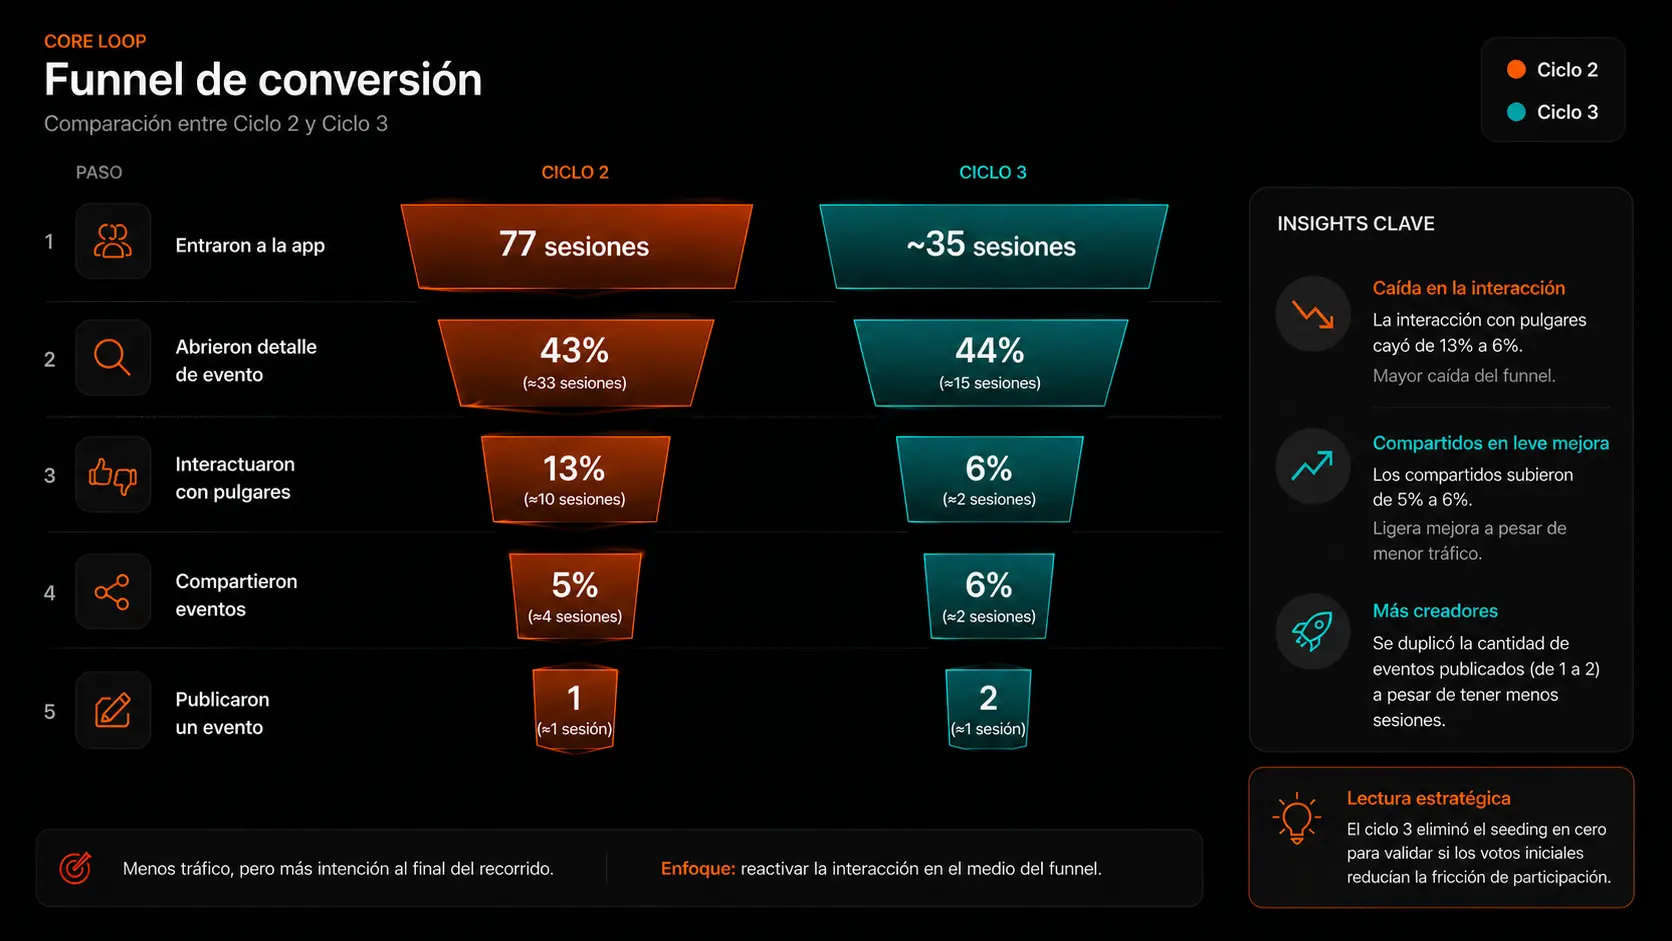
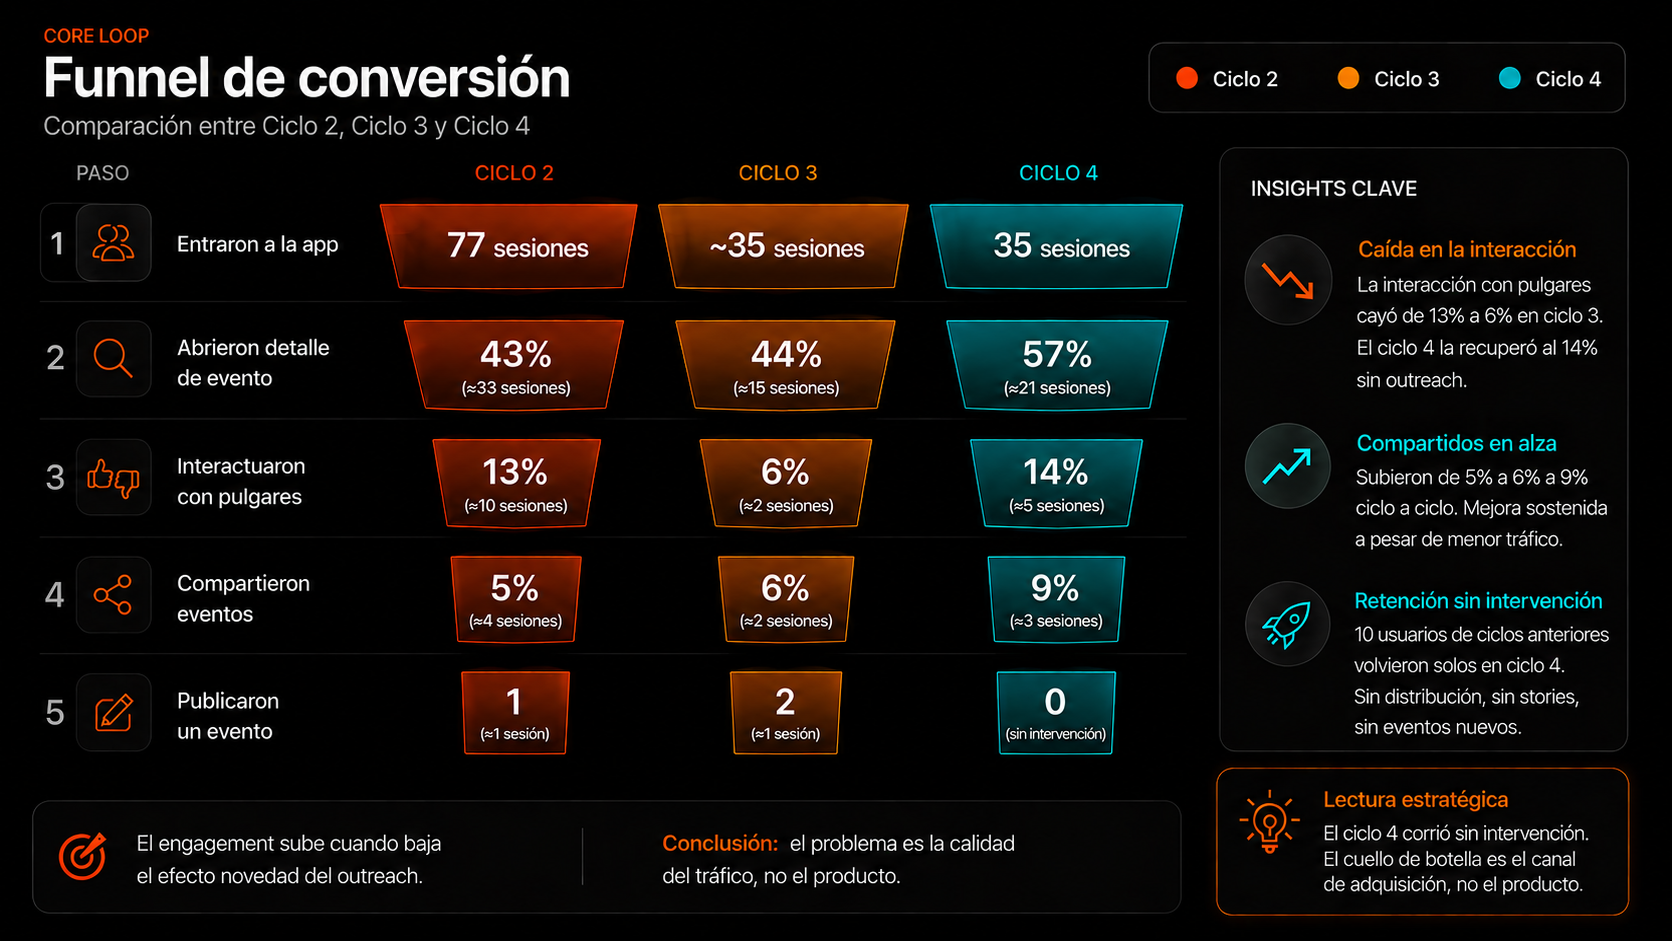
Ciclo 4 added

diff --git a/src/app/[lang]/manijapp/page.tsx b/src/app/[lang]/manijapp/page.tsx
@@ -705,8 +705,8 @@ export default async function ManijappPage({
             <section id="validacion" className="w-full px-8 md:px-12 lg:px-20 mb-20">
               <h2 className="text-3xl md:text-4xl font-bold text-light mb-6">
                 {es
-                  ? "Validación: tres ciclos, decisiones encadenadas"
-                  : "Validation: three cycles, chained decisions"}
+                  ? "Validación: cuatro ciclos, decisiones encadenadas"
+                  : "Validation: four cycles, chained decisions"}
               </h2>
 
               {/* Tabla de métricas */}
@@ -720,8 +720,11 @@ export default async function ManijappPage({
                       <th className="py-3 pr-6 text-right font-semibold text-light/70">
                         {es ? "Ciclo 2" : "Cycle 2"}
                       </th>
-                      <th className="py-3 text-right font-semibold text-light/70">
+                      <th className="py-3 pr-6 text-right font-semibold text-light/70">
                         {es ? "Ciclo 3" : "Cycle 3"}
+                      </th>
+                      <th className="py-3 text-right font-semibold text-light/70">
+                        {es ? "Ciclo 4" : "Cycle 4"}
                       </th>
                     </tr>
                   </thead>
@@ -731,53 +734,62 @@ export default async function ManijappPage({
                         {es ? "Usuarios activos (GA4)" : "Active users (GA4)"}
                       </td>
                       <td className="py-3 pr-6 text-right">89</td>
-                      <td className="py-3 text-right">32</td>
+                      <td className="py-3 pr-6 text-right">32</td>
+                      <td className="py-3 text-right">35</td>
                     </tr>
                     <tr>
                       <td className="py-3 pr-6 font-semibold">
                         {es ? "Pages / sesión" : "Pages / session"}
                       </td>
                       <td className="py-3 pr-6 text-right">2.45</td>
-                      <td className="py-3 text-right">4.02</td>
+                      <td className="py-3 pr-6 text-right">4.02</td>
+                      <td className="py-3 text-right">2.91</td>
                     </tr>
                     <tr>
                       <td className="py-3 pr-6 font-semibold">Scroll depth</td>
                       <td className="py-3 pr-6 text-right">63.7%</td>
-                      <td className="py-3 text-right">78.4%</td>
+                      <td className="py-3 pr-6 text-right">78.4%</td>
+                      <td className="py-3 text-right">65.35%</td>
                     </tr>
                     <tr>
                       <td className="py-3 pr-6 font-semibold">Active time</td>
                       <td className="py-3 pr-6 text-right">57s</td>
-                      <td className="py-3 text-right">1m 30s</td>
+                      <td className="py-3 pr-6 text-right">1m 30s</td>
+                      <td className="py-3 text-right">1m 0s</td>
                     </tr>
                     <tr>
                       <td className="py-3 pr-6 font-semibold">
                         {es ? "Retención 7 días (cohorte)" : "7-day retention (cohort)"}
                       </td>
                       <td className="py-3 pr-6 text-right">7.9% (7/89)</td>
-                      <td className="py-3 text-right">~7.1% (2/28)</td>
+                      <td className="py-3 pr-6 text-right">~7.1% (2/28)</td>
+                      <td className="py-3 text-right">4% (1/25)</td>
                     </tr>
                     <tr>
                       <td className="py-3 pr-6 font-semibold">
                         {es ? "Usuarios returning (GA4)" : "Returning users (GA4)"}
                       </td>
                       <td className="py-3 pr-6 text-right">2</td>
-                      <td className="py-3 text-right">3</td>
+                      <td className="py-3 pr-6 text-right">3</td>
+                      <td className="py-3 text-right">10</td>
                     </tr>
                     <tr>
                       <td className="py-3 pr-6 font-semibold">validation_tap</td>
                       <td className="py-3 pr-6 text-right">13%</td>
-                      <td className="py-3 text-right">6.25%</td>
+                      <td className="py-3 pr-6 text-right">6.25%</td>
+                      <td className="py-3 text-right">14.3%</td>
                     </tr>
                     <tr>
                       <td className="py-3 pr-6 font-semibold">event_shared</td>
                       <td className="py-3 pr-6 text-right">5.2%</td>
-                      <td className="py-3 text-right">6.25%</td>
+                      <td className="py-3 pr-6 text-right">6.25%</td>
+                      <td className="py-3 text-right">8.6%</td>
                     </tr>
                     <tr>
                       <td className="py-3 pr-6 font-semibold">event_submitted</td>
                       <td className="py-3 pr-6 text-right">1</td>
-                      <td className="py-3 text-right">2</td>
+                      <td className="py-3 pr-6 text-right">2</td>
+                      <td className="py-3 text-right">0</td>
                     </tr>
                   </tbody>
                 </table>
@@ -864,6 +876,33 @@ export default async function ManijappPage({
                   </div>
                 </Block>
               </GridContainer>
+
+              <div className="mt-8 md:mt-10">
+                <div className="bg-container/80 rounded-lg p-6">
+                  <h3 className="text-lg font-bold text-light mb-3">
+                    {es
+                      ? "Ciclo 4 · Retención sin intervención"
+                      : "Cycle 4 · Retention without intervention"}
+                  </h3>
+                  <div className="text-light text-sm leading-relaxed space-y-3">
+                    <p>
+                      {es
+                        ? "El cuarto ciclo no tuvo distribución, stories ni eventos nuevos. Sin ningún estímulo, 10 usuarios de ciclos anteriores volvieron solos. El engagement por usuario fue el más alto de toda la serie: validation_tap al 14.3%, event_shared al 8.6%."
+                        : "The fourth cycle had no distribution, stories, or new events. With no stimulus, 10 users from earlier cycles came back on their own. Per-user engagement was the highest in the entire series: validation_tap at 14.3%, event_shared at 8.6%."}
+                    </p>
+                    <p>
+                      {es
+                        ? "La ausencia de intervención es lo que hace este ciclo el más limpio. Cualquier métrica de ciclos anteriores podía explicarse por el efecto novedad del outreach. Acá no hay outreach. Lo que se mide es el producto solo."
+                        : "The absence of intervention is what makes this cycle the cleanest. Any metric from earlier cycles could be explained by the novelty effect of outreach. Here there is no outreach. What gets measured is the product alone."}
+                    </p>
+                    <p className="text-light/70">
+                      {es
+                        ? "La conclusión es concreta: el cuello de botella no es el producto ni la retención. Es la adquisición de usuarios con intención real. El outreach directo trae curiosidad, no hábito."
+                        : "The conclusion is concrete: the bottleneck isn't the product or retention. It's acquiring users with real intent. Direct outreach brings curiosity, not habit."}
+                    </p>
+                  </div>
+                </div>
+              </div>
             </section>
           </FadeOnScroll>
 
@@ -881,8 +920,8 @@ export default async function ManijappPage({
                 height={650}
                 caption={
                   es
-                    ? "Funnel del core loop con datos reales de los ciclos 2 y 3."
-                    : "Core loop funnel with real data from cycles 2 and 3."
+                    ? "Funnel del core loop con datos reales de los ciclos 2, 3 y 4."
+                    : "Core loop funnel with real data from cycles 2, 3 and 4."
                 }
                 className="w-full"
                 imageClassName="object-cover"
@@ -965,45 +1004,56 @@ export default async function ManijappPage({
 
           {/* ==================== QUÉ SIGUE ==================== */}
           <FadeOnScroll>
-            <section id="cierre" className="w-full px-8 md:px-12 lg:px-20 mb-20">
+            <section id="cierre" className="w-full px-8 md:px-12 lg:px-20 mb-20 pb-16">
               <h2 className="text-3xl md:text-4xl font-bold text-light mb-8">
                 {es ? "Qué sigue" : "What's next"}
               </h2>
               <div className="text-light leading-relaxed space-y-4 mb-10">
                 <p className="text-lg">
                   {es
-                    ? "El ciclo 4 cambia el canal: de cold outreach digital a presencia en el ecosistema. Las stories de Instagram se formalizan como infraestructura de retención semanal — es la solución más barata disponible antes de construir cualquier feature de notificación."
-                    : "Cycle 4 changes the channel: from cold digital outreach to presence in the ecosystem. Instagram stories are formalized as weekly retention infrastructure — it's the cheapest solution available before building any notification feature."}
+                    ? "El ciclo 4 confirmó que el cuello de botella es el canal, no el producto. La retención existe sin estímulo. El siguiente paso es adquisición de usuarios con intención real — gente que no me conoce y llega igual."
+                    : "Cycle 4 confirmed the bottleneck is the channel, not the product. Retention exists without stimulus. The next step is acquiring users with real intent — people who don't know me and still show up."}
                 </p>
                 <p className="text-lg">
                   {es
                     ? "Los avances pendientes tienen triggers, no fechas."
                     : "Pending advances have triggers, not dates."}
                 </p>
+                <p className="text-xl text-light font-semibold leading-relaxed">
+                  {es
+                    ? <>La decisión más importante no es qué construir. <br /> Es qué medir, con qué criterio, y cuándo la señal es suficiente para actuar.</>
+                    : <>The most important decision isn't what to build. <br /> It's what to measure, by what criteria, and when the signal is sufficient to act.</>}
+                </p>
+                <p className="text-lg">
+                  {es ? (
+                    <>
+                      Manijapp es un proyecto en curso —{" "}
+                      <a
+                        href="https://manijapp.vercel.app"
+                        target="_blank"
+                        rel="noopener noreferrer"
+                        className="text-[#2DD4BF] underline underline-offset-2 transition-colors hover:text-[#5EEAD4]"
+                      >
+                        manijapp.vercel.app
+                      </a>
+                    </>
+                  ) : (
+                    <>
+                      Manijapp is an ongoing project —{" "}
+                      <a
+                        href="https://manijapp.vercel.app"
+                        target="_blank"
+                        rel="noopener noreferrer"
+                        className="text-[#2DD4BF] underline underline-offset-2 transition-colors hover:text-[#5EEAD4]"
+                      >
+                        manijapp.vercel.app
+                      </a>
+                    </>
+                  )}
+                </p>
               </div>
-
-              <p className="text-xl text-light font-semibold leading-relaxed">
-                {es
-                  ? <>La decisión más importante no es qué construir. <br /> Es qué medir, con qué criterio, y cuándo la señal es suficiente para actuar.</>
-                  : <>The most important decision isn't what to build. <br /> It's what to measure, by what criteria, and when the signal is sufficient to act.</>}
-              </p>
             </section>
           </FadeOnScroll>
-
-          {/* ==================== NOTA DE PIE ==================== */}
-          <div className="w-full px-8 md:px-12 lg:px-20 pb-16">
-            <p className="text-xs text-light/40 italic">
-              {es ? "Manijapp es un proyecto en curso — " : "Manijapp is an ongoing project — "}
-              <a
-                href="https://manijapp.vercel.app"
-                target="_blank"
-                rel="noopener noreferrer"
-                className="text-[#2DD4BF] underline underline-offset-2 transition-colors hover:text-[#5EEAD4]"
-              >
-                manijapp.vercel.app
-              </a>
-            </p>
-          </div>
         </main>
       </div>
       <NextCaseStudy currentSlug="manijapp" lang={lang} />

diff --git a/playwright.config.ts b/playwright.config.ts
@@ -4,10 +4,18 @@ export default defineConfig({
   testDir: "./tests",
   timeout: 60_000,
   expect: { timeout: 10_000 },
+  fullyParallel: true,
+  forbidOnly: !!process.env.CI,
   retries: process.env.CI ? 2 : 0,
+  workers: process.env.CI ? 1 : undefined,
+  reporter: [
+    ["html", { open: "never" }],
+    ["list"],
+  ],
   use: {
     baseURL: "http://localhost:3000",
     trace: "on-first-retry",
+    screenshot: "only-on-failure",
   },
   webServer: {
     command: "npx next dev --webpack -p 3000",

diff --git a/tests/fixtures/index.ts b/tests/fixtures/index.ts
@@ -1,0 +1,6 @@
+import { test as base, expect } from "@playwright/test"
+
+/** Base test con fixtures compartidos; extender aquí con `test.extend`. */
+export const test = base.extend({})
+
+export { expect }
